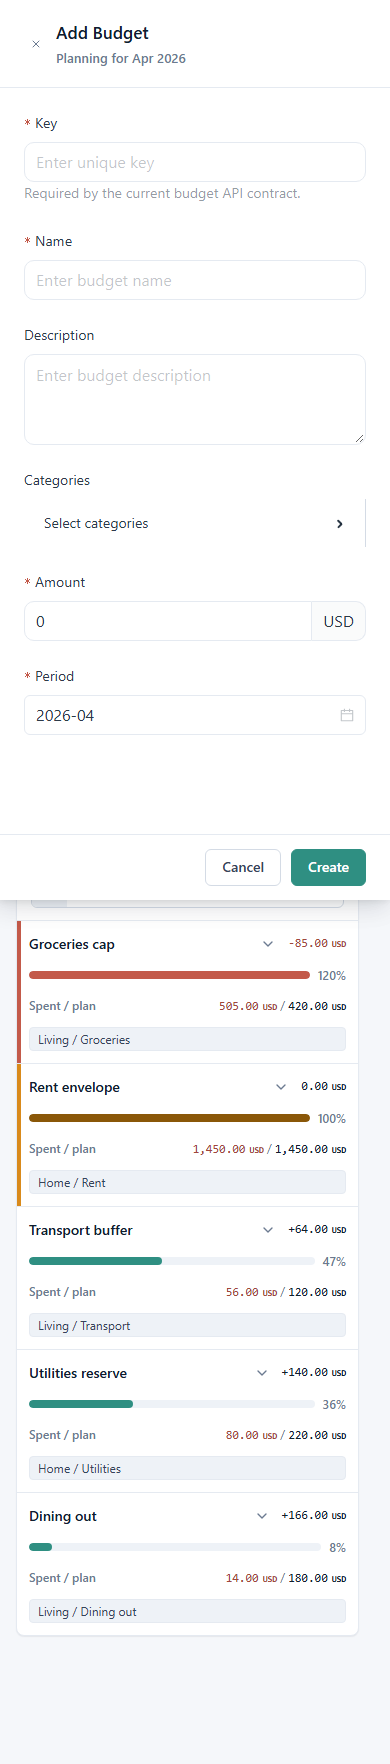
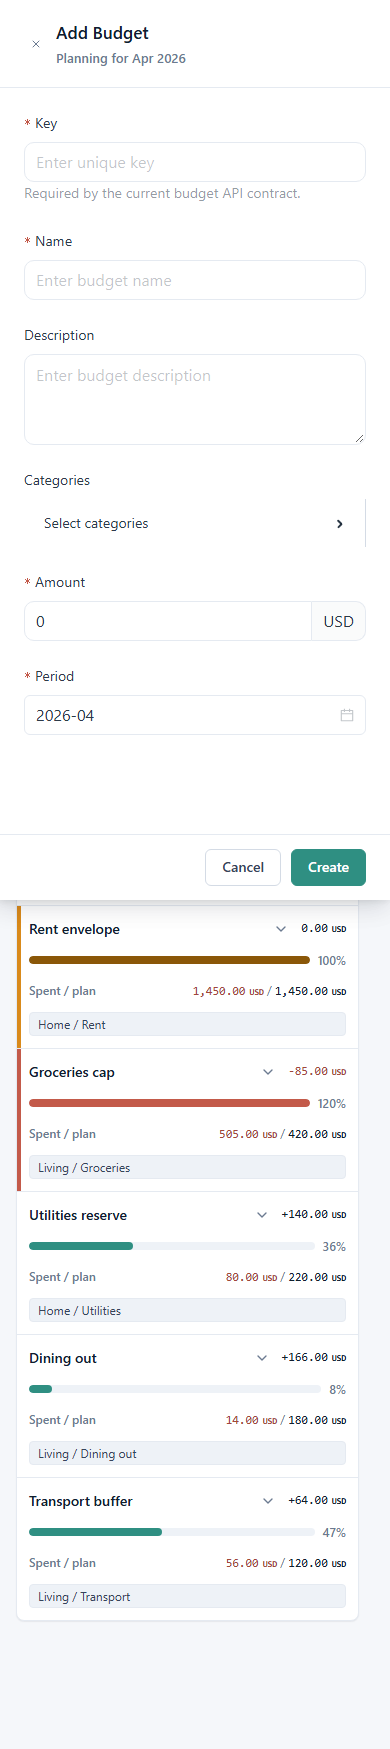
fix(budgets): simplify period selector and sorting

diff --git a/inex/ClientApp/src/pages/Budgets/budget-planning-utils.test.ts b/inex/ClientApp/src/pages/Budgets/budget-planning-utils.test.ts
@@ -197,9 +197,11 @@ describe("budget planning helpers", () => {
         expect(getBudgetPeriodSelection(null, current).format("YYYY-MM-DD")).toBe("2026-04-01");
     });
 
-    it("omits unsupported months from the period chip window", () => {
+    it("keeps exactly three supported months in the period chip window", () => {
         expect(getSupportedBudgetPeriodWindow(dayjs("2020-01-01")).map((option) => option.key))
             .toEqual(["2020-01", "2020-02", "2020-03"]);
+        expect(getSupportedBudgetPeriodWindow(dayjs("2026-06-01")).map((option) => option.key))
+            .toEqual(["2026-05", "2026-06", "2026-07"]);
         expect(getSupportedBudgetPeriodWindow(dayjs("2030-12-01")).map((option) => option.key))
             .toEqual(["2030-10", "2030-11", "2030-12"]);
     });
@@ -214,25 +216,24 @@ describe("budget planning helpers", () => {
         expect(getSupportedBudgetMonthFromParams(null, null, dayjs("2031-06-15")).format("YYYY-MM-DD")).toBe("2030-12-01");
     });
 
-    it("sorts visible budgets by mockup toolbar modes without changing API data", () => {
+    it("sorts visible budgets by supported toolbar modes without changing API data", () => {
         const groceries = createBudgetDetails({ id: 1, name: "Groceries", value: 500, categoryIds: [1] });
         const rent = createBudgetDetails({ id: 2, name: "Rent", value: 1200, categoryIds: [2] });
         const cafes = createBudgetDetails({ id: 3, name: "Cafes", value: 200, categoryIds: [3] });
-        const budgets = [groceries, rent, cafes];
+        const dining = createBudgetDetails({ id: 4, name: "Dining", value: 500, categoryIds: [4] });
+        const budgets = [groceries, rent, cafes, dining];
         const reportItems = [
             reportItem({ categoryIds: [1], spentAmount: 450, remainingAmount: 50, percentageUsed: 90 }),
             reportItem({ categoryIds: [2], spentAmount: 700, remainingAmount: 500, percentageUsed: 58.3 }),
             reportItem({ categoryIds: [3], spentAmount: 260, remainingAmount: -60, percentageUsed: 130 }),
         ];
 
-        expect(getSortedBudgets(budgets, reportItems, "burnRate").map((budget) => budget.name))
-            .toEqual(["Cafes", "Groceries", "Rent"]);
         expect(getSortedBudgets(budgets, reportItems, "remaining").map((budget) => budget.name))
-            .toEqual(["Cafes", "Groceries", "Rent"]);
+            .toEqual(["Cafes", "Groceries", "Dining", "Rent"]);
         expect(getSortedBudgets(budgets, reportItems, "amount").map((budget) => budget.name))
-            .toEqual(["Rent", "Groceries", "Cafes"]);
+            .toEqual(["Rent", "Dining", "Groceries", "Cafes"]);
         expect(getSortedBudgets(budgets, reportItems, "name").map((budget) => budget.name))
-            .toEqual(["Cafes", "Groceries", "Rent"]);
-        expect(budgets.map((budget) => budget.name)).toEqual(["Groceries", "Rent", "Cafes"]);
+            .toEqual(["Cafes", "Dining", "Groceries", "Rent"]);
+        expect(budgets.map((budget) => budget.name)).toEqual(["Groceries", "Rent", "Cafes", "Dining"]);
     });
 });

diff --git a/inex/ClientApp/src/pages/Budgets/budget-planning-utils.ts b/inex/ClientApp/src/pages/Budgets/budget-planning-utils.ts
@@ -25,7 +25,7 @@ export type BudgetUsageStatus = "unavailable" | "idle" | "ok" | "near" | "atLimi
 
 export type BudgetPaceStatus = "idle" | "under" | "onPace" | "ahead" | "overBudget";
 
-export type BudgetSortMode = "burnRate" | "remaining" | "amount" | "name";
+export type BudgetSortMode = "remaining" | "amount" | "name";
 
 export interface BudgetPaceMetrics {
     dayOfMonth: number;
@@ -131,11 +131,7 @@ export const getSortedBudgets = (
 
     if (sortMode === "name") return byName;
     if (sortMode === "amount") return right.value - left.value || byName;
-    if (sortMode === "remaining") {
-        return (leftReport?.remainingAmount ?? left.value) - (rightReport?.remainingAmount ?? right.value) || byName;
-    }
-
-    return (rightReport?.percentageUsed ?? 0) - (leftReport?.percentageUsed ?? 0) || byName;
+    return (leftReport?.remainingAmount ?? left.value) - (rightReport?.remainingAmount ?? right.value) || byName;
 });
 
 export const getBudgetUsageStatus = (
@@ -284,16 +280,26 @@ export const getBudgetPeriodSelection = (
 
 export const getSupportedBudgetPeriodWindow = (
     selectedMonth: Dayjs,
-    offsets = [-2, -1, 0, 1, 2],
-): BudgetPeriodOption[] =>
-    offsets
-        .map((offset) => selectedMonth.add(offset, "month").date(1).startOf("day"))
-        .filter((period) => !isBudgetPeriodDisabled(period))
+): BudgetPeriodOption[] => {
+    const normalizedMonth = getSupportedBudgetMonth(selectedMonth).date(1).startOf("day");
+    const earliestMonth = normalizedMonth.year(BUDGET_MIN_YEAR).month(0);
+    const latestStartMonth = normalizedMonth.year(BUDGET_MAX_YEAR).month(9);
+    let windowStart = normalizedMonth.subtract(1, "month");
+
+    if (windowStart.isBefore(earliestMonth, "month")) {
+        windowStart = earliestMonth;
+    } else if (windowStart.isAfter(latestStartMonth, "month")) {
+        windowStart = latestStartMonth;
+    }
+
+    return [0, 1, 2]
+        .map((offset) => windowStart.add(offset, "month").date(1).startOf("day"))
         .map((period) => ({
             key: period.format("YYYY-MM"),
             label: period.format("MMM YYYY"),
             period,
         }));
+};
 
 export const getSupportedBudgetMonthFromParams = (
     yearParam: string | null,

diff --git a/inex/ClientApp/src/pages/Budgets.tsx b/inex/ClientApp/src/pages/Budgets.tsx
@@ -139,7 +139,7 @@ const Budgets = () => {
     const [drawerOpen, setDrawerOpen] = useState(false);
     const [expandedBudgetId, setExpandedBudgetId] = useState<number | null>(null);
     const [searchText, setSearchText] = useState("");
-    const [sortMode, setSortMode] = useState<BudgetSortMode>("burnRate");
+    const [sortMode, setSortMode] = useState<BudgetSortMode>("amount");
     const [drawerError, setDrawerError] = useState<string | null>(null);
     const [copyError, setCopyError] = useState<string | null>(null);
     const [currencies, setCurrencies] = useState<CurrencyOption[]>([]);
@@ -467,7 +467,6 @@ const Budgets = () => {
     );
 
     const sortOptions = [
-        { key: "burnRate", label: t("budgets.sort.burnRate") },
         { key: "remaining", label: t("budgets.sort.remaining") },
         { key: "amount", label: t("budgets.sort.amount") },
         { key: "name", label: t("budgets.sort.name") },
